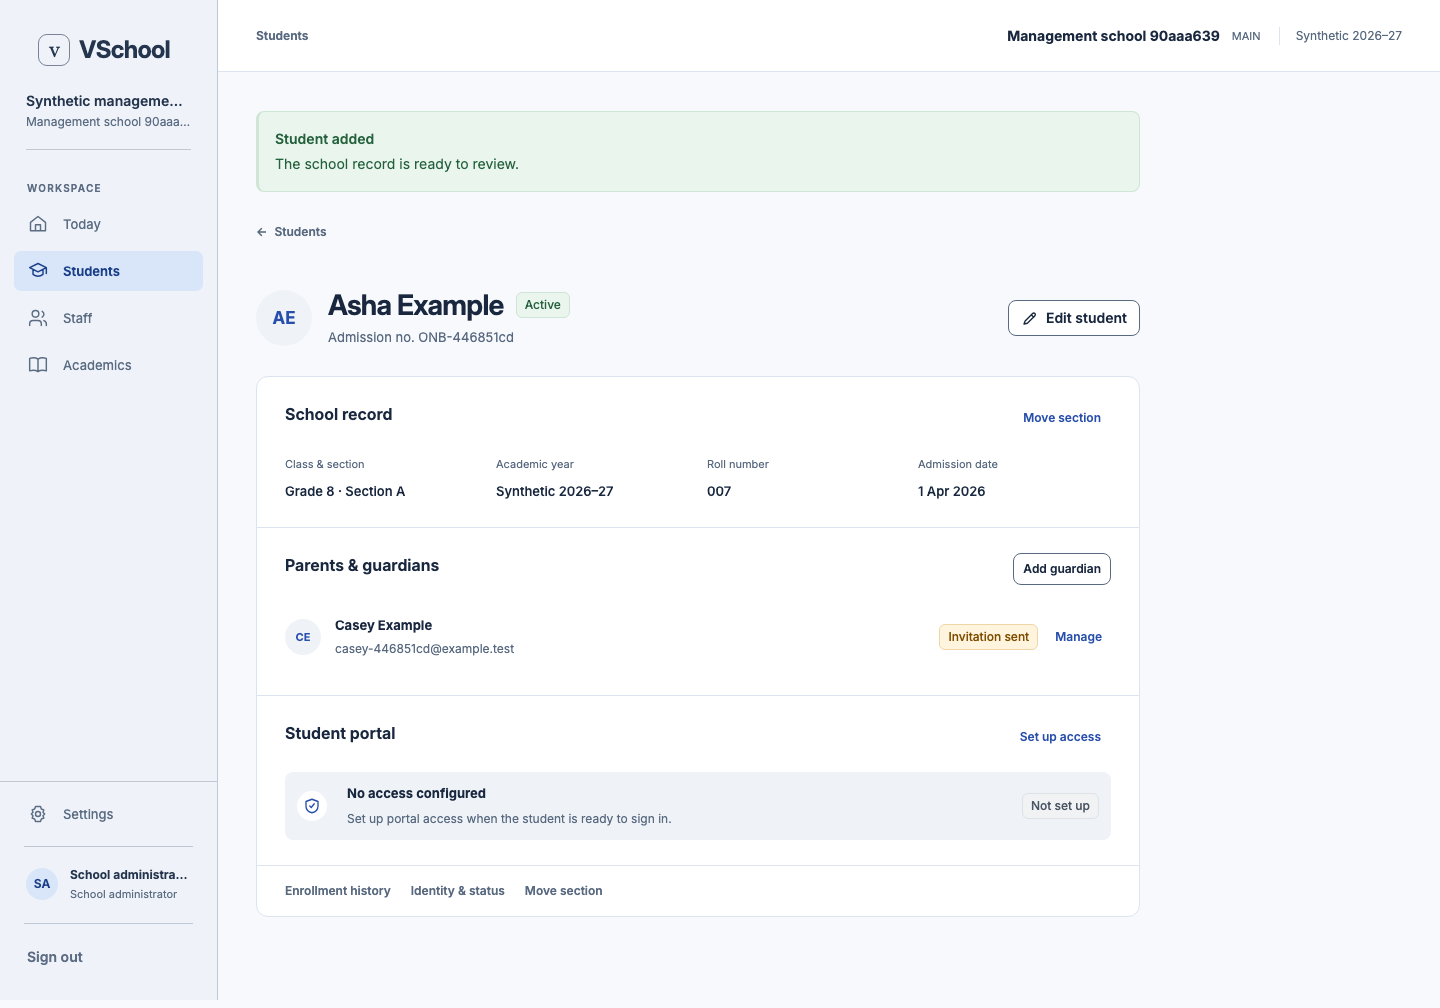
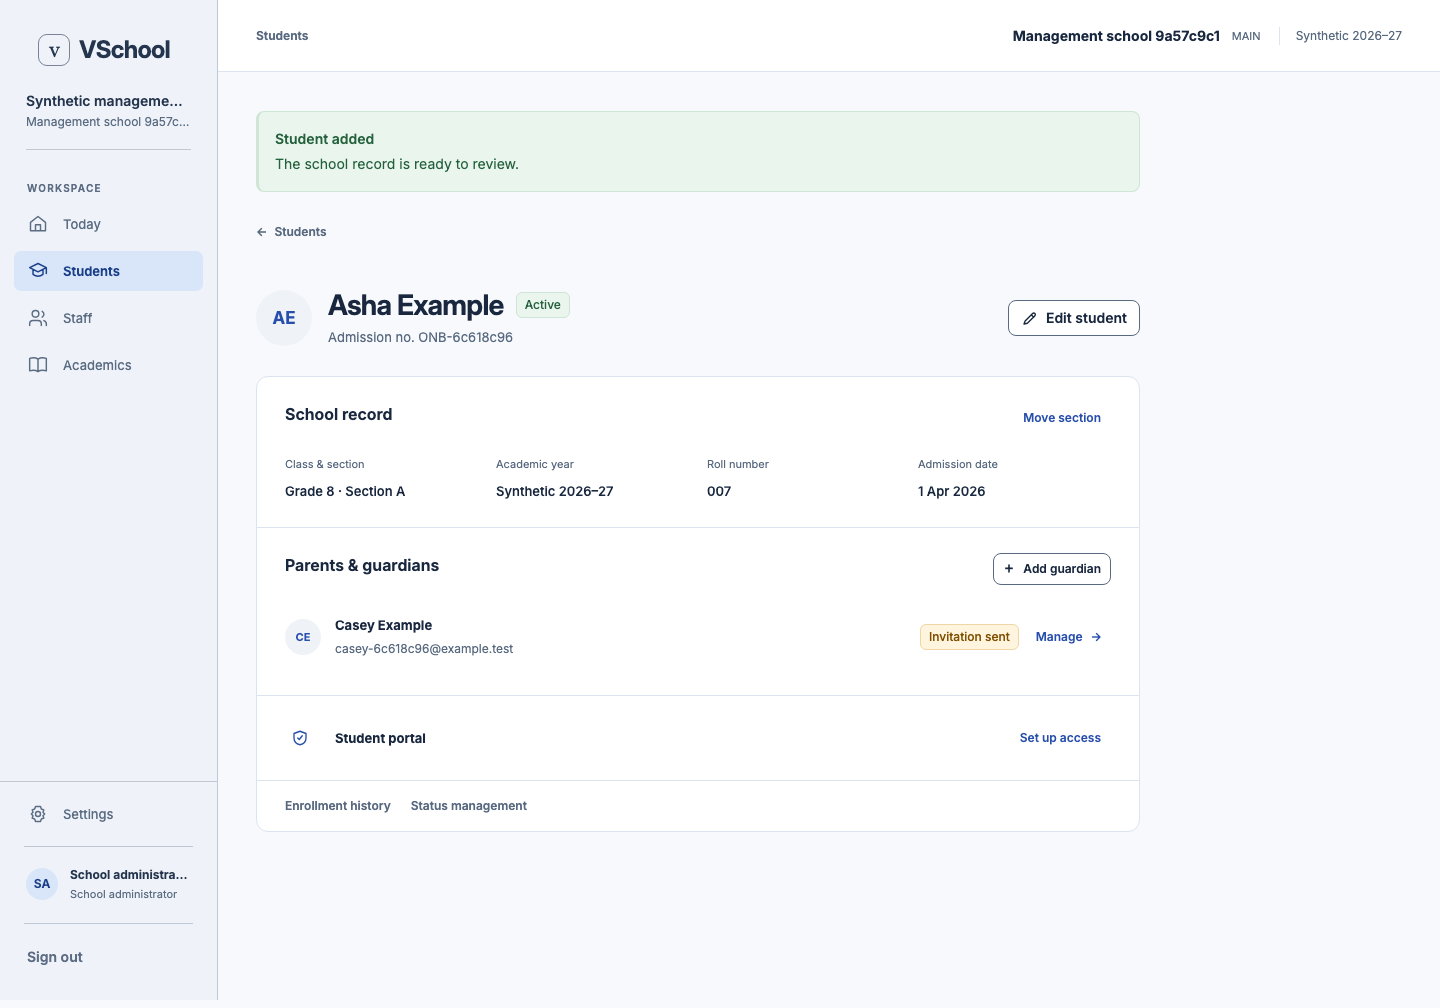
Record Administrator Students UX closure evidence

diff --git a/docs/execution/SCHOOL_ADMIN_WORKFLOW_MATRIX.md b/docs/execution/SCHOOL_ADMIN_WORKFLOW_MATRIX.md
@@ -37,10 +37,10 @@ Routes, owner evidence, accepted behavior and human-review status remain authori
 | SA-15 | Review invitation or resend access | `VSchool_School_Admin_Review.html#/flow/SA-15` | staff | EX-05 | VERIFIED_SUPPORTED_SLICE | PARTIAL_REFERENCE_COMPARISON | Access PostgreSQL token lifecycle and desktop/mobile recovery; [comparison/gap record](../evidence/admin-staff-access-2026-10-11/README.md) | PENDING | Safe replacement-token resend is implemented. Exact reference composition needs an accepted reason/audit-reason contract. |
 | SA-16 | Verify a staff identity and teacher eligibility | `VSchool_School_Admin_Review.html#/flow/SA-16` | staff | EX-05 | VERIFIED_SUPPORTED_SLICE | PARTIAL_REFERENCE_COMPARISON | People PostgreSQL/browser tests; [comparison/gap record](../evidence/admin-staff-access-2026-10-11/README.md) | PENDING | Current verified binding and Teacher enablement work. Dated eligibility and affected-assignment conflict handling need an Academics owner contract. |
 | SA-17 | Change or revoke staff access | `VSchool_School_Admin_Review.html#/flow/SA-17` | staff | EX-05 | VERIFIED | DIRECT_REFERENCE_COMPARISON_PENDING_HUMAN | [Direct Staff/access comparison](../evidence/admin-staff-access-2026-10-11/README.md); existing Access PostgreSQL plus new desktop/mobile suspend/reinstate journey | PENDING | Dedicated composition is complete; durable drafts and human review remain pending. |
-| SA-18 | Register a student manually | `VSchool_School_Admin_Review.html#/flow/SA-18` | students | EX-07 | VERIFIED | DIRECT_REFERENCE_COMPARISON_PENDING_HUMAN | [Dedicated registration comparison](../evidence/admin-student-registration-2026-10-11/README.md); exact identity/admission-date transaction and desktop/mobile PostgreSQL browser evidence | PENDING | Dedicated four-step route, scoped duplicate recovery and receipt are complete; draft persistence and human review remain pending. |
-| SA-19 | Enroll and place a student | `VSchool_School_Admin_Review.html#/flow/SA-19` | students | EX-07 | VERIFIED | DIRECT_REFERENCE_COMPARISON_PENDING_HUMAN | [Direct enrollment comparison](../evidence/admin-student-placement-2026-10-11/README.md); scoped searchable/paginated standalone and fixed-Student entry, receipt/recovery, replay, duplicate/year rejection and desktop/mobile PostgreSQL browser evidence | PENDING | Eligible Students beyond the initial 100 are reachable through the existing scoped query/cursor contract; durable drafts and human review remain pending. |
-| SA-20 | Review or update a student record | `VSchool_School_Admin_Review.html#/flow/SA-20` | students | EX-08 | VERIFIED | DIRECT_REFERENCE_COMPARISON_PENDING_HUMAN | [Direct Student management comparison](../evidence/admin-student-management-2026-10-11/README.md); `docs/evidence/sa-comp-04/README.md`; unit, PostgreSQL migration/scope/replay/rollback/concurrency and desktop/mobile browser evidence | PENDING | Direct entry/review comparison is complete; draft persistence, body-font portability and human review remain pending. |
-| SA-21 | Move a student to another section | `VSchool_School_Admin_Review.html#/flow/SA-21` | students | EX-07 | VERIFIED | DIRECT_REFERENCE_COMPARISON_PENDING_HUMAN | [Staged transfer comparison](../evidence/admin-student-transfer-2026-10-11/README.md); scoped PostgreSQL and desktop/mobile browser evidence | PENDING | Direct comparison is complete; durable drafts, font portability, native accessibility/zoom and human review remain pending. |
+| SA-18 | Register a student manually | `VSchool_School_Admin_Review.html#/flow/SA-18` | students | EX-07 | VERIFIED | DIRECT_REFERENCE_COMPARISON_PENDING_HUMAN | [Administrator Students closure](../evidence/student-ux-closure-2026-10-21/README.md); exact new/existing identity, duplicate/foreign denial, transaction, replay and desktop/mobile comparison | PENDING | One connected registration page and final owner command are complete; human review remains pending. |
+| SA-19 | Enroll and place a student | `VSchool_School_Admin_Review.html#/flow/SA-19` | students | EX-07 | VERIFIED | SHARED_PATTERN_COMPARISON_PENDING_HUMAN | [Administrator Students closure](../evidence/student-ux-closure-2026-10-21/README.md); fixed-Student two-stage enrollment, exact retry and desktop/mobile extension evidence | PENDING | Owner behavior and bounded composition are complete; the approved onboarding file has no exact enrollment state. |
+| SA-20 | Review or update a student record | `VSchool_School_Admin_Review.html#/flow/SA-20` | students | EX-08 | VERIFIED | DIRECT_AND_SHARED_PATTERN_COMPARISON_PENDING_HUMAN | [Administrator Students closure](../evidence/student-ux-closure-2026-10-21/README.md); exact Profile plus focused correction-drawer stale/replay evidence | PENDING | Profile is a direct comparison; correction is an explicit shared-pattern extension. Native accessibility/zoom and human review remain pending. |
+| SA-21 | Move a student to another section | `VSchool_School_Admin_Review.html#/flow/SA-21` | students | EX-07 | VERIFIED | SHARED_PATTERN_COMPARISON_PENDING_HUMAN | [Administrator Students closure](../evidence/student-ux-closure-2026-10-21/README.md); fixed-Student two-stage transfer, roster protection, stale/replay and desktop/mobile extension evidence | PENDING | Owner behavior and bounded composition are complete; native accessibility/zoom and human review remain pending. |
 | SA-22 | Promote, transfer or leave school | `VSchool_School_Admin_Review.html#/flow/SA-22` | students | EX-07 | BLOCKED_PRODUCT_DECISION | PENDING_REFERENCE_COMPARISON | No implementation evidence yet | PENDING | Product decision: define LifecycleCase states, promotion/year transition, cross-branch destination acceptance, obligation-owner acknowledgements, withdrawal semantics and bulk partial-result recovery. |
 | SA-23 | Preview a roster import | `VSchool_School_Admin_Review.html#/flow/SA-23` | imports | EX-08 | VERIFIED | DIRECT_REFERENCE_COMPARISON_PENDING_HUMAN | [Direct SA-23 comparison](../evidence/admin-sa-23-2026-10-11/README.md); Imports PostgreSQL/browser tests | PENDING | Approved four-stage preview composition and zero-student-write proof are complete. Durable drafts, font/native accessibility and human review remain pending. |
 | SA-24 | Confirm, resume and reconcile an import | `VSchool_School_Admin_Review.html#/flow/SA-24` | imports | EX-08 | VERIFIED | DIRECT_REFERENCE_COMPARISON_PENDING_HUMAN | [Direct staged reconciliation comparison](../evidence/admin-sa-24-2026-10-11/README.md); focused Imports PostgreSQL/browser tests | PENDING | Staged selection, exact-key lost-response recovery, durable processing receipt and direct desktop/mobile comparison are complete. Font/native accessibility and human review remain pending. |

diff --git a/docs/modules/students/CURRENT_STATE.md b/docs/modules/students/CURRENT_STATE.md
@@ -1,16 +1,14 @@
 # Students, enrollment and placement history — current state
 
-## Connected onboarding/profile checkpoint — 21 October 2026
+## Administrator → Students UX closure — 21 October 2026
 
-Implementation is **ENGINEERING_VERIFIED** on the current working source; human visual review is **PENDING**. `/admin/students/register` composes registration, optional placement and optional Guardian invitation through the existing portable application use case. Each operation keeps its owner authorization, transaction and idempotency key. Later-stage failure retains completed receipts, an unknown response retries the exact command, and no successful Student is deleted. Fully confirmed success now opens the authorized `/admin/students/:id` Profile directly, preserves the directory return URL and focuses concise success feedback. Partial and reload recovery remain on the truthful receipt/status composition.
+Implementation is **ENGINEERING_VERIFIED** at application commit `8b91f12410aa6590a0a2f7060de5117afa54f12d`; human visual review is **PENDING**. The bounded closure preserves the existing Students, People, Academics and Guardians owner commands while completing the connected presentation: one-page new/existing registration, the approved compact Profile, a focused correction drawer, fixed-Student two-stage enrollment and transfer, read-only history, compact Guardian access and two-stage Student portal setup/management. Unknown outcomes retain the exact owner payload and key; stale enrollment/transfer/correction state requires a fresh review; no page or drawer writes another owner's tables.
 
-`/admin/students/:id` now matches the approved compact identity, School record, Parents & guardians and Student portal hierarchy. Portal selection no longer assumes database array order: it chooses the latest active owner record, retaining the latest removed record only when no live record exists, and maps all five statuses explicitly. The Profile distinguishes no configuration, historical removal, unavailable inspection and temporary load failure. Initial enrollment, current placement transfer and history remain separate existing guarded actions; consequential identity correction retains its dedicated reviewed flow rather than being reduced to an unsafe generic drawer. The Add Guardian drawer uses the approved `Full name` label, single Student context, fixed owner purposes and accessible dirty-close/removal confirmation.
+The exact Add Student, Profile and Guardian reference states were inspected against application captures at 1440×1000 and 390×844, with 900/360 widths and four Profile themes also covered. Edit, enrollment, transfer and portal management use the established shared patterns and are explicitly recorded as extensions because the approved file contains no exact states for them. The Profile portal strip now has one label and one state-appropriate action rather than redundant state prose. Six truthful portal conditions are captured: no access, setup link sent, delivery failed, operator setup required, access enabled and access removed.
 
-Current focused evidence covers the exact reference SHA, direct Add/Profile/Guardian inspection, all four themes, 1440×1000, 900px, 390×844 and 360px layouts, a committed lost response followed by exact replay, one persisted Student/Enrollment/Placement/Guardian access, portal-manager state, unsaved-drawer recovery, removal confirmation, focus return and limited-authority action suppression. Unit portal-selection checks passed 2/2; TypeScript, targeted lint, backend/boundary checks and sequential one-worker desktop/mobile Playwright passed. Focused recovery/limited-authority Playwright passed 4/4. One long existing-identity aggregate browser case was not used as completion evidence after it stalled during its unchanged later assertions; its previously applicable owner and focused registration evidence remains recorded separately. No schema, migration, seed or owner command changed. See [current Profile comparison evidence](../../evidence/student-onboarding-profile-2026-10-21/README.md) and [connected onboarding evidence](../../evidence/student-onboarding-connected-2026-10-21/README.md).
+Focused verification passed 12 unit tests, 26 real-PostgreSQL tests and 12/12 sequential one-worker desktop/mobile browser journeys; the adjusted portal-state assertion then passed 2/2. Database-design (204 contracts), backend/boundary checks, the full 277-test unit suite and the 4 GiB production build passed. Production build ID is `P356gTOrgzzFVi7OZu0lg`; isolated E2E build ID is `184LsNqkE4rXuojNE4hch`. `pnpm check` passed lint/types and stops only at two pre-existing unrelated broken evidence links in dirty `WORKSPACE_PRESENTATION_REVAMP` documents. No schema, migration, seed or owner-command contract changed. See [closure evidence](../../evidence/student-ux-closure-2026-10-21/README.md), [connected exact comparison](../../evidence/student-onboarding-connected-2026-10-21/README.md) and [Profile comparison](../../evidence/student-onboarding-profile-2026-10-21/README.md).
 
-Application commit `e9ff84aec8e527d84b1565de7d9038af9dd1c551` is served at `http://127.0.0.1:3400`; its health endpoint returned the live VSchool response. The production build passed with build ID `zqojKBm521UKFb4kmitjr`; the final isolated browser build ID is `vMgTxM8y_Hoxsil07IOpx`. The guarded aggregate demo seed was not rerun for this presentation-only correction; existing fictional fixtures and private credentials remain preserved.
-
-The exact reference includes a relationship field and a contact-only state that the Guardians owner does not store. The application does not fabricate either and grants only the fixed server-owned core purposes plus the existing optional notices purpose. Actual browser 200% zoom, VoiceOver, NVDA, human acceptance, TEN-03 and production messaging/provider review remain pending.
+The Guardians owner still has no relationship field or contact-only lifecycle, so those reference elements remain an explicit contract deviation rather than fabricated data. Actual native 200% zoom, VoiceOver, NVDA, human acceptance, TEN-03 and production messaging/provider review remain pending.
 
 ## Approved FIRST registration composition — 20 October 2026
 

diff --git a/docs/evidence/student-ux-closure-2026-10-21/README.md b/docs/evidence/student-ux-closure-2026-10-21/README.md
@@ -1,0 +1,58 @@
+# Administrator → Students UX closure — 21 October 2026
+
+## Provenance
+
+- Starting checkpoint: `22de3c71fee68c5d78b080ce4d4989e6f5729221`.
+- Executable application source: `8b91f12410aa6590a0a2f7060de5117afa54f12d`.
+- Exact approved reference: `docs/ux/references/student-onboarding-approved/refined-onboarding.html`.
[1 lines of base64/hex data omitted]
+- Production build ID: `P356gTOrgzzFVi7OZu0lg`.
+- Isolated E2E build ID: `184LsNqkE4rXuojNE4hch`.
+- Schema/migrations: unchanged by this slice; guarded PostgreSQL verification used the existing 119-migration schema with no pending migration.
+- Human review: **PENDING**.
+
+## Outcome
+
+The bounded closure covers the connected Administrator Students journeys without changing owner contracts or database state. Registration retains one connected page and one final Student mutation. The Profile uses the approved identity, School record, guardian and single portal-strip hierarchy. Student correction is a focused drawer with independent reasoned owner commands. Initial enrollment and section transfer each use two meaningful stages with final-only writes. Guardian and portal management are compact, state-specific and retain the exact command key after an unknown response.
+
+| Surface | Before | After |
+|---|---|---|
+| Registration | Connected single page | Preserved; no additional confirmation or durable draft |
+| Student correction | Legacy multi-stage composition | One focused drawer; one submit per name/admission-date section |
+| Enrollment | Student re-selection plus staged review | Fixed Profile Student; Details → Review; final confirmation only |
+| Transfer | Three presentation stages | Details → Review; final confirmation only |
+| Guardian access | General management composition | Compact Add/Manage drawer with one action per purpose row |
+| Student portal | Redundant setup confirmation/state text | Two stages and one compact Profile strip with state-specific action |
+
+## Evidence map
+
+- Requirement matrix: [IMPLEMENTATION_MATRIX.md](IMPLEMENTATION_MATRIX.md).
+- Exact reference/application Add Student, Profile and Guardian comparisons: `docs/evidence/student-onboarding-connected-2026-10-21/`.
+- Profile width/theme captures: `docs/evidence/student-onboarding-profile-2026-10-21/application/`.
+- Shared-pattern extensions: `extensions/`.
+- Portal states: `portal-states/` — no access, setup link sent, delivery failed, operator setup required, access enabled and access removed, each at desktop/mobile.
+
+The direct-reference captures and application captures were visually inspected for hierarchy, spacing, control size, drawer composition, mobile wrapping and root overflow. Edit, enrollment, transfer and portal-management images are shared-pattern extensions rather than claims of an exact state absent from the reference.
+
+## Verification
+
+- Focused unit verification: 3 files, 12 tests passed.
+- Focused real-PostgreSQL verification: Students registration, Guardians and Student portal; 3 files, 26 tests passed.
+- Focused current clean-build Playwright: 12/12 passed sequentially with one worker across desktop/mobile. Covered registration modes and navigation, correction drawer/stale state, enrollment, transfer, portal lifecycle/recovery and persisted portal states.
+- A follow-up portal-state run passed 2/2 after aligning the assertion with the deliberately simplified Profile strip.
+- `pnpm check:db-design`: passed, 204 table contracts.
+- `pnpm check:boundaries`: passed.
+- `pnpm check:backend`: passed.
+- `pnpm test:unit`: passed, 64 files / 277 tests.
+- Production build with `NODE_OPTIONS=--max-old-space-size=4096`: passed; build ID above.
+- `pnpm check`: lint, generated types and TypeScript passed. Documentation validation remains non-green only because two unrelated dirty `WORKSPACE_PRESENTATION_REVAMP` files link to the absent `docs/evidence/workspace-presentation-route-pass-2026-10-20/README.md`.
+
+During iteration, a functional wrapper command forwarded its filter incorrectly and began the broad suite; it was stopped after an unrelated Finance failure. The corrected targeted command passed. A stale disposable `.next-e2e` cache initially omitted late CSS rules; a clean isolated build fixed the evidence source. Neither issue changed backend requirements or database state.
+
+## Deviations and remaining gates
+
+- Production shell, authorized context and fictional fixture data remain authoritative.
+- The Guardians owner has no relationship field or contact-only lifecycle, so those reference elements are not fabricated.
+- Exact visual authority exists for Add Student, Profile and Guardian states. The other completed surfaces use the established shared patterns and are labelled accordingly.
+- Native browser 200% zoom, VoiceOver and NVDA are unperformed.
+- Human visual acceptance, TEN-03, production provider and production-release gates remain pending.

diff --git a/docs/evidence/student-ux-closure-2026-10-21/IMPLEMENTATION_MATRIX.md b/docs/evidence/student-ux-closure-2026-10-21/IMPLEMENTATION_MATRIX.md
@@ -1,0 +1,18 @@
+# Administrator → Students closure matrix
+
[1 lines of base64/hex data omitted]
+
+| Journey | Functional / security | Interaction | Visual comparison | Evidence | Human |
+|---|---|---|---|---|---|
+| New Student registration | COMPLETE — existing Students command retains live scope, exact identity, transaction and idempotency rules | COMPLETE — one connected page and one final registration action; committed result opens Profile; partial/unknown outcomes stay distinct | COMPLETE — exact add-student reference compared at desktop/mobile and across four themes | `../student-onboarding-connected-2026-10-21/`; split browser registration cases | PENDING |
+| Existing Person registration | COMPLETE — exact authorized Person ID/admission-number resolution remains separate from directory search; duplicate and foreign records are denied | COMPLETE — existing-record input appears only in that mode; Back/Forward retains safe URL state | COMPLETE — exact existing-record reference state inspected | `../student-onboarding-connected-2026-10-21/`; registration browser cases | PENDING |
+| Student Profile | COMPLETE — protected detail projection only | COMPLETE — committed onboarding opens Profile; Back restores directory query state | COMPLETE — exact profile reference compared at 1440×1000, 900px, 390×844 and 360px, plus four themes | `../student-onboarding-connected-2026-10-21/application/profile-*`; `../student-onboarding-profile-2026-10-21/application/` | PENDING |
+| Correct Student detail | COMPLETE — existing reasoned name/admission-date commands retain owner version and replay checks | COMPLETE — focused drawer, independent forms, dirty-close protection and stale-value recovery | COMPLETE as shared-pattern extension; no exact reference state exists | `extensions/edit-drawer-*`; `extensions/edit-stale-*` | PENDING |
+| Initial enrollment and placement | COMPLETE — existing atomic enrollment command and academic/Students guards retained | COMPLETE — fixed Student, Details → Review, final-only mutation, exact unknown retry | COMPLETE as shared-pattern extension at desktop/mobile | `extensions/enrollment-*`; focused enrollment browser case | PENDING |
+| Dated section move | COMPLETE — existing transfer version, frozen-roster and concurrency rules retained | COMPLETE — fixed Student, Details → Review, stale refetch requires fresh confirmation, exact unknown retry | COMPLETE as shared-pattern extension at desktop/mobile | `extensions/transfer-*`; focused transfer browser case | PENDING |
+| Enrollment history | COMPLETE — protected read-only history; no historical roster rewrite | COMPLETE — reachable from Profile and retains return path | COMPLETE within approved Profile composition | Profile captures and existing history evidence | PENDING |
+| Guardian access | COMPLETE — explicit Guardian management authority and current Student scope remain server enforced | COMPLETE — compact Add/Manage drawer; one purpose action per row; exact payload/key retained after unknown outcome | COMPLETE — exact add/manage reference states compared at desktop/mobile | `../student-onboarding-connected-2026-10-21/application/guardian-*`; `extensions/guardian-unknown-*` | PENDING |
+| Student portal access | COMPLETE — existing authorize/resend/purpose/remove commands and owner authorization retained | COMPLETE — two setup stages, state-specific management and exact unknown retry | COMPLETE as shared-pattern extension; six truthful states captured at desktop/mobile | `portal-states/`; `extensions/portal-unknown-*` | PENDING |
+| Return to directory | COMPLETE — safe query contract and branch scope unchanged | COMPLETE — Back/Forward restores search, attribute, status, sort and order state | COMPLETE within Profile reference comparison | focused registration browser case | PENDING |
+
+The registration and Guardian portions are direct comparisons. Edit, enrollment, transfer and portal management are explicitly labelled shared-pattern extensions because the approved file contains no exact states for them. The reference relationship field and contact-only Guardian state are not implemented because the current Guardians owner does not persist those contracts; no data or authority was fabricated.
